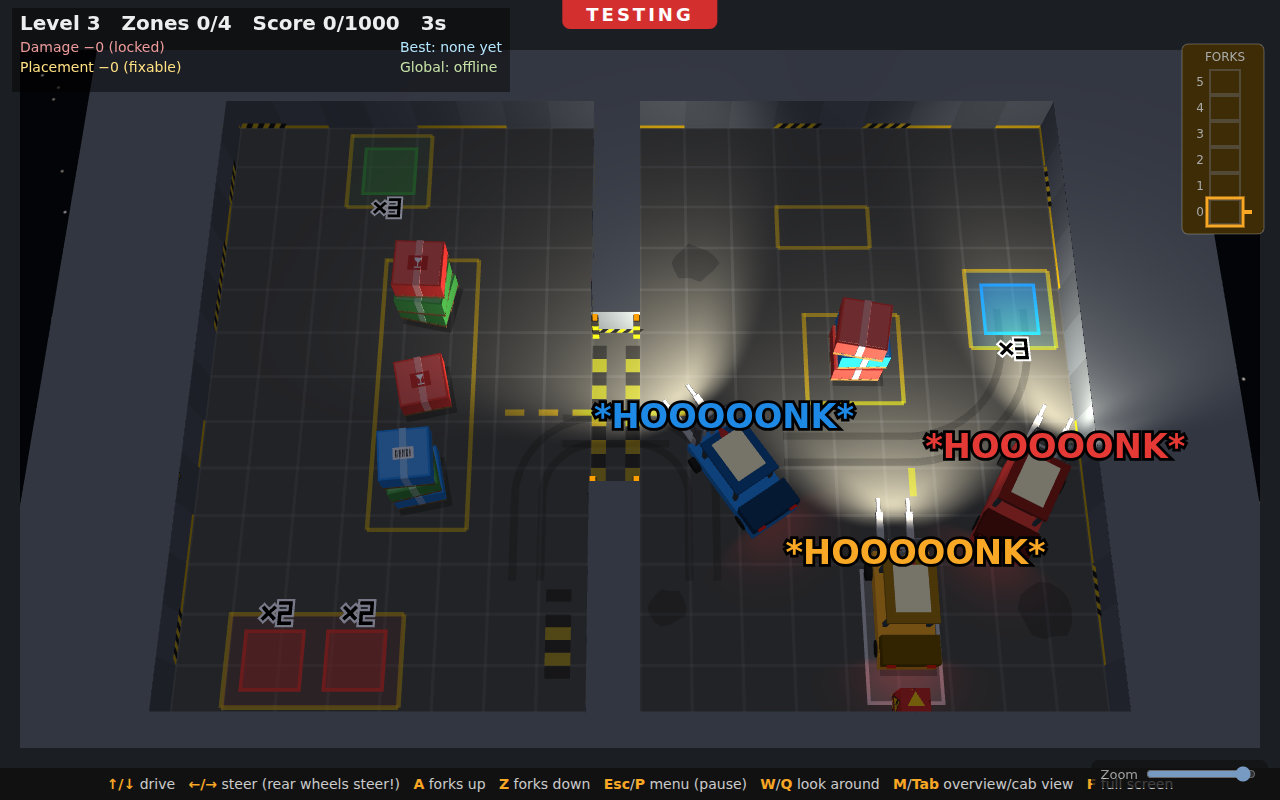
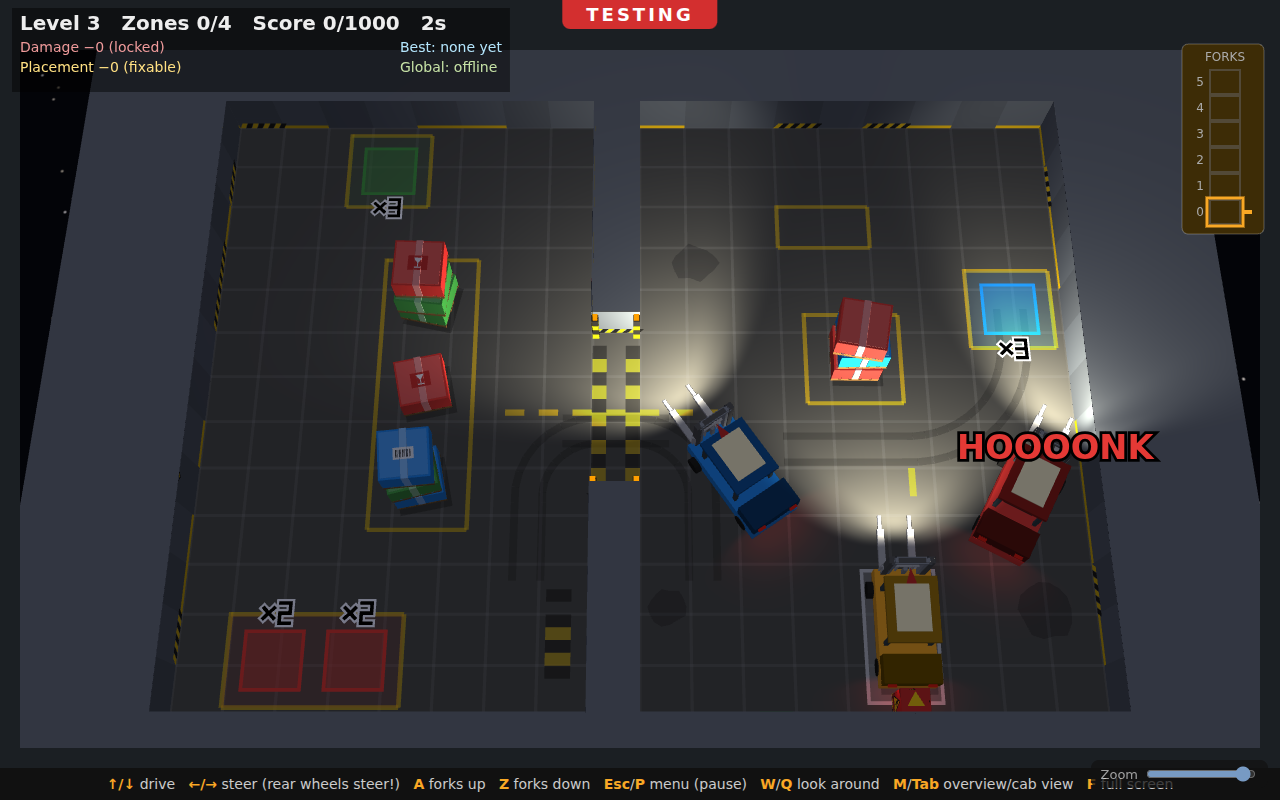
Presentation: honk screenshot with two trucks honking for different lengths

Changed region(s): [[0.5938, 0.5312, 0.9375, 0.875], [0.4375, 0.5, 0.6875, 0.5625]]

diff --git a/docs/presentation.html b/docs/presentation.html
@@ -359,7 +359,7 @@
     <li>A floating label in the truck's colour grows while the horn is held: HONK → HOOOOONK → <i>*HOOOOONK*</i> after 3 s</li>
     <li>Off-screen honks are pinned to the view edge, so you know which way to look</li>
   </ul>
-  <figure><img src="shots/21-multiplayer-honk.png" alt=""><figcaption>Three trucks honking at once (dark mode)</figcaption></figure>
+  <figure><img src="shots/21-multiplayer-honk.png" alt=""><figcaption>Two trucks honking, the red one longer than the blue (dark mode)</figcaption></figure>
   </div>
 </section>
 
